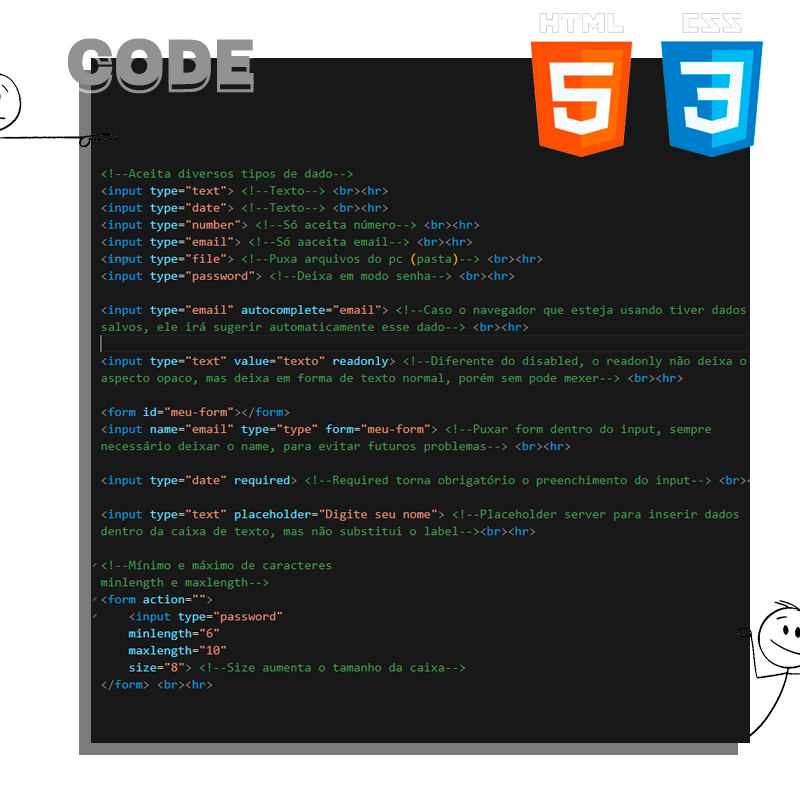
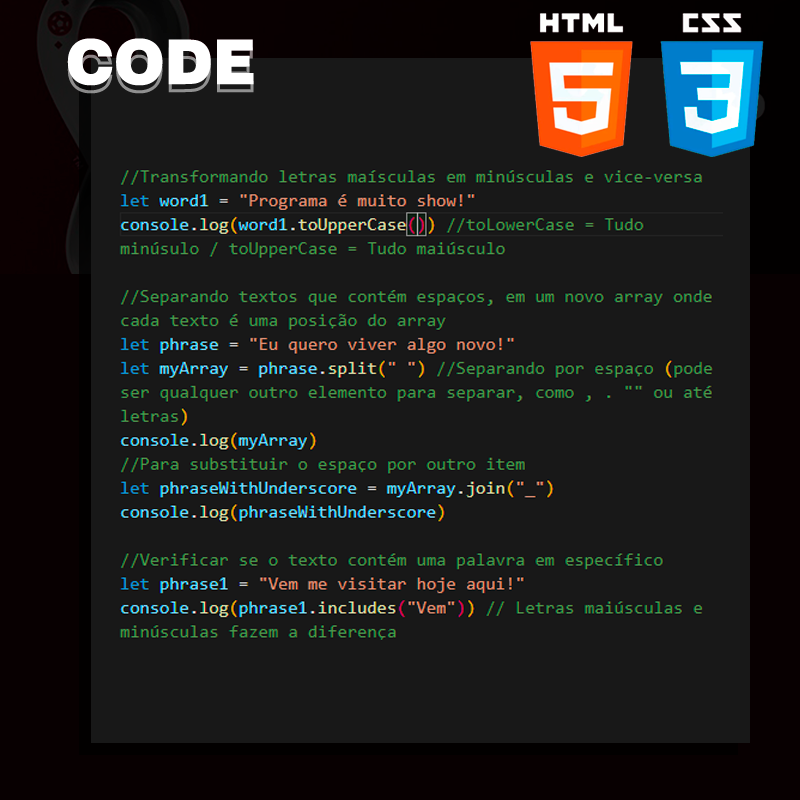
Atualizando estudos js

diff --git a/desafio-100-days/exercicios-rockseat/javascript/typecasting.js b/desafio-100-days/exercicios-rockseat/javascript/typecasting.js
@@ -1,0 +1,78 @@
+/* 
+Type conversion (typecasting) vs Type coesion
+
+    Type coesion: Dados são alterados de forma automática, sem manipulção
+    Type conversion: Dados manipulados pelo adm
+* Alteração de um tipo de dado para outro tipo
+*/
+
+//Exemplo
+let string = "123"
+console.log(Number('17') + 4)
+let number = 321
+console.log(String(Number))
+
+//Contagem de caracteres
+let word = "paralelepipedo"
+console.log(word.lenght)
+let number1 = 1234
+console.log(number.lenght)
+
+//Trocar qtd de casas decimais e ponto de separação
+let number2 = 345.9293992
+console.log(number2.toFixed(2).replace(".", ",")) //trocando . por ,
+
+//Transformando letras maísculas em minúsculas e vice-versa
+let word1 = "Programa é muito show!"
+console.log(word.toUpperCase) //toLowerCase = Tudo minúsulo / toUpperCase = Tudo maiúsculo
+
+//Separando textos que contém espaços, em um novo array onde cada texto é uma posição do array
+let phrase = "Eu quero viver algo novo!"
+let myArray = phrase.split(" ") //Separando por espaço (pode ser qualquer outro elemento para separar, como , . "" ou até letras)
+console.log(myArray)
+//Para substituir o espaço por outro item
+let phraseWithUnderscore = myArray.join("_")
+console.log(phraseWithUnderscore)
+
+//Verificar se o texto contém uma palavra em específico
+let phrase1 = "Vem me visitar hoje aqui!"
+console.log(phrase1.includes("Vem")) // Letras maiúsculas e minúsculas fazem a diferença
+
+//Criar Array com construtor
+// let myArray2 = ['a', 'b', 'c'] - Array sem construtor
+let myArray3 = new Array('a', 'b', 'c') //Array com construtor
+console.log(myArray)
+
+//Contar elementos de um array
+console.log(["a", 
+{type: "array"}, 
+function() { return "alo"},
+][2]()) //esse [2]() busca o segundo da lista e retorna o alo - se fosse pra buscar o objeto na posição 1, seria [1].type
+//versão mais simplificada de fazer essa manipulação
+console.log(["a", "b", "c"].length) //mostra quantos elementos tem no array
+
+//Transformar uma cadeia de caracteres em elementos de um array
+let word2 = "manipulação"
+console.log(Array.from(word2)) //cada letra virou um elemento do array, 0 = m / 1 = a / 2 = n etc
+
+//Manipulando arrays
+let techs = ["html", "css", "js"]
+//adicionar um item no fim
+console.log(techs.push("nodejs")) //foi adicionado nodejs depois do js
+//adicionar no começo
+techs.unshift("sql") // Adicionado antes do html
+//Remover do final
+techs.pop() //Já escluiu a última info
+techs.pop() //Continua removendo
+//Removendo do começo
+techs.shift() //removel o primeiro item
+//pegar somente alguns elementos do Array
+console.log(techs.slice(1, 2))// (posição, até qual item irá buscar) //Não modifica, apenas da como retorno
+//Remover 1 ou mais itens em qualquer posição do array
+techs.splice(1, 2) //Removeu 1, até quantos eu quiser, que foi 2
+//Encontrar posição de um elemento no array
+let index = techs.indexOf('css') //Qual é o idnex do css?
+console.log(index, 1) // encontrei a pósição, agora se eu quiser excluir, bastaa pegar a posilção e dar um techs.splice(index, ')
+
+console.log(techs)
+

diff --git a/desafio-100-days/exercicios-rockseat/javascript/teste.html b/desafio-100-days/exercicios-rockseat/javascript/teste.html
@@ -1,0 +1,51 @@
+<script>
+//Separando textos que contém espaços, em um novo array onde cada texto é uma posição do array
+let phrase = "Eu quero viver algo novo!"
+let myArray = phrase.split(" ") //Separando por espaço (pode ser qualquer outro elemento para separar, como , . "" ou até letras)
+console.log(myArray)
+//Para substituir o espaço por outro item
+let phraseWithUnderscore = myArray.join("_")
+console.log(phraseWithUnderscore)
+
+//Verificar se o texto contém uma palavra em específico
+let phrase1 = "Vem me visitar hoje aqui!"
+console.log(phrase1.includes("Vem")) // Letras maiúsculas e minúsculas fazem a diferença
+
+//Criar Array com construtor
+// let myArray2 = ['a', 'b', 'c'] - Array sem construtor
+let myArray3 = new Array('a', 'b', 'c') //Array com construtor
+console.log(myArray)
+
+//Contar elementos de um array
+console.log(["a", 
+{type: "array"}, 
+function() { return "alo"},
+][2]()) //esse [2]() busca o segundo da lista e retorna o alo - se fosse pra buscar o objeto na posição 1, seria [1].type
+//versão mais simplificada de fazer essa manipulação
+console.log(["a", "b", "c"].length) //mostra quantos elementos tem no array
+
+//Transformar uma cadeia de caracteres em elementos de um array
+let word2 = "manipulação"
+console.log(Array.from(word2)) //cada letra virou um elemento do array, 0 = m / 1 = a / 2 = n etc
+
+//Manipulando arrays
+let techs = ["html", "css", "js"]
+//adicionar um item no fim
+console.log(techs.push("nodejs")) //foi adicionado nodejs depois do js
+//adicionar no começo
+techs.unshift("sql") // Adicionado antes do html
+//Remover do final
+techs.pop() //Já escluiu a última info
+techs.pop() //Continua removendo
+//Removendo do começo
+techs.shift() //removel o primeiro item
+//pegar somente alguns elementos do Array
+console.log(techs.slice(1, 2))// (posição, até qual item irá buscar) //Não modifica, apenas da como retorno
+//Remover 1 ou mais itens em qualquer posição do array
+techs.splice(1, 2) //Removeu 1, até quantos eu quiser, que foi 2
+//Encontrar posição de um elemento no array
+let index = techs.indexOf('css') //Qual é o idnex do css?
+console.log(index, 1) // encontrei a pósição, agora se eu quiser excluir, bastaa pegar a posilção e dar um techs.splice(index, ')
+
+console.log(techs)
+</script>

diff --git a/desafio-100-days/exercicios-rockseat/position-grid/style.css b/desafio-100-days/exercicios-rockseat/position-grid/style.css
@@ -27,6 +27,7 @@ aside{
     grid-area: aside;
     background-color: rgb(0, 76, 182);
 }
+
 footer{
     grid-area: footer;
     background-color:rgb(0, 47, 112) ;
